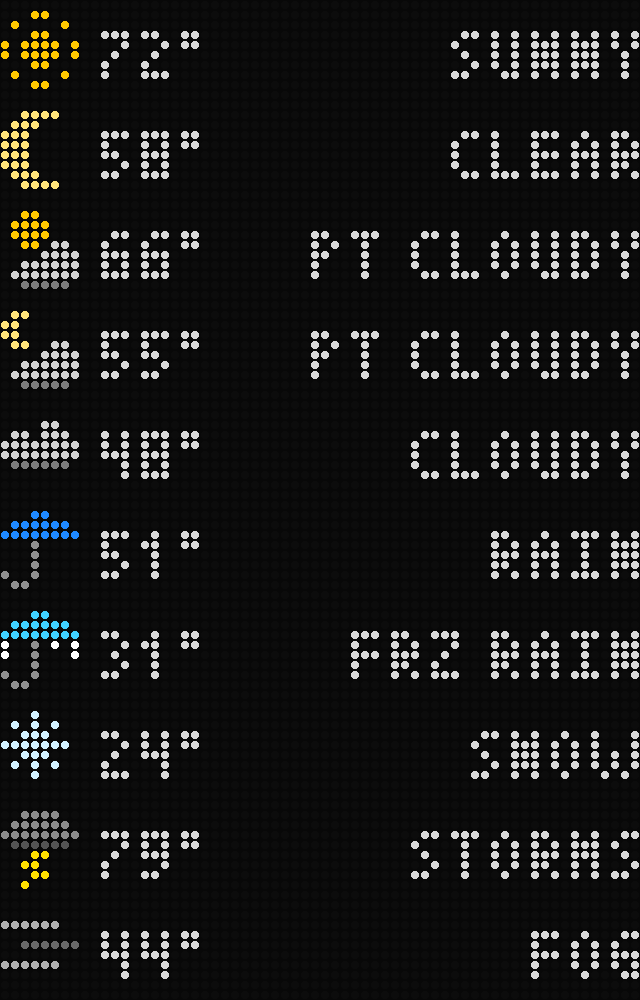
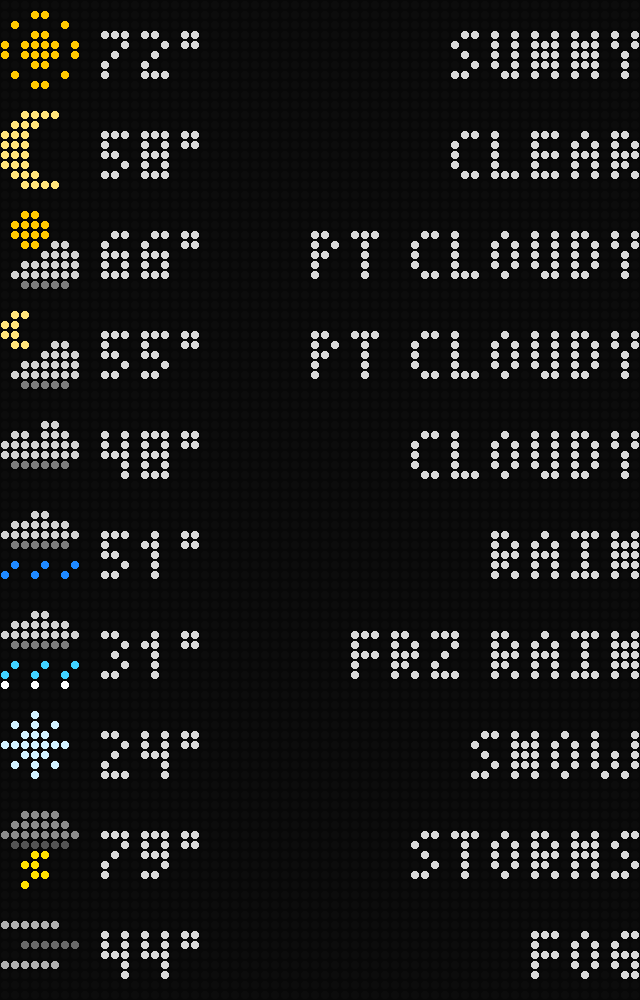
Board: rain and freezing rain as a cloud with streaks
The umbrella's 2px peak read like a lamp. Rain is now a cloud with
slanted blue streaks, matching the storm icon (cloud and bolt); freezing
rain is the same cloud with cyan streaks ending in white ice, so it
doesn't read as rain at night brightness.

Claude-Session: https://claude.ai/code/session_01GmVBM93c7aqLNDoZ2PwPgy

Changed region(s): [[0.0, 0.62, 0.125, 0.713], [0.0, 0.496, 0.125, 0.589]]

diff --git a/server/board/icons.js b/server/board/icons.js
@@ -16,10 +16,9 @@ const PALETTE = {
   D: '#7c7c7c', // cloud underside
   G: '#8a8a8a', // storm cloud
   K: '#545454', // storm cloud underside
-  B: '#1e88ff', // umbrella canopy
-  H: '#8f8f8f', // umbrella handle
-  I: '#40d0ff', // icy canopy
-  W: '#ffffff', // icicles
+  B: '#1e88ff', // rain
+  I: '#40d0ff', // freezing rain
+  W: '#ffffff', // ice under freezing rain
   S: '#d0f0ff', // snowflake
   F: '#b0b0b0', // fog
   E: '#686868', // fog, far line
@@ -78,24 +77,24 @@ const ICONS = {
     '........',
   ],
   rain: [
-    '...BB...',
-    '.BBBBBB.',
-    'BBBBBBBB',
-    '...H....',
-    '...H....',
-    '...H....',
-    'H..H....',
-    '.HH.....',
+    '...CC...',
+    '.CCCCCC.',
+    'CCCCCCCC',
+    '.DDDDDD.',
+    '........',
+    '.B..B..B',
+    'B..B..B.',
+    '........',
   ],
   ice: [
-    '...II...',
-    '.IIIIII.',
-    'IIIIIIII',
-    'W..H.W.W',
-    'W..H...W',
-    '...H....',
-    'H..H....',
-    '.HH.....',
+    '...CC...',
+    '.CCCCCC.',
+    'CCCCCCCC',
+    '.DDDDDD.',
+    '........',
+    '.I..I..I',
+    'I..I..I.',
+    'W..W..W.',
   ],
   snow: [
     '...S....',

diff --git a/firmware/boardlib/assets.py b/firmware/boardlib/assets.py
@@ -37,7 +37,6 @@ ICON_PALETTE = {
     71: (138, 138, 138),  # G
     75: (84, 84, 84),  # K
     66: (30, 136, 255),  # B
-    72: (143, 143, 143),  # H
     73: (64, 208, 255),  # I
     87: (255, 255, 255),  # W
     83: (208, 240, 255),  # S
@@ -52,8 +51,8 @@ ICONS = {
     'pcloudy_day': b'..YY.....YYYY....YYYY.....YY.CC.....CCCC..CCCCCC.CCCCCCC..DDDDD.',
     'pcloudy_night': b'.MM.....MM......MM.......MM..CC.....CCCC..CCCCCC.CCCCCCC..DDDDD.',
     'cloudy': b'............CC...CC.CCC.CCCCCCCCCCCCCCCC.DDDDDD.................',
-    'rain': b'...BB....BBBBBB.BBBBBBBB...H.......H.......H....H..H.....HH.....',
-    'ice': b'...II....IIIIII.IIIIIIIIW..H.W.WW..H...W...H....H..H.....HH.....',
+    'rain': b'...CC....CCCCCC.CCCCCCCC.DDDDDD..........B..B..BB..B..B.........',
+    'ice': b'...CC....CCCCCC.CCCCCCCC.DDDDDD..........I..I..II..I..I.W..W..W.',
     'snow': b'...S.....S.S.S....SSS...SSSSSSS...SSS....S.S.S.....S............',
     'storm': b'..GGGG...GGGGGG.GGGGGGGG.KKKKKK....LL.....LL.......LL.....L.....',
     'fog': b'........FFFFFF............EEEEEE........FFFFFF..................',

diff --git a/docs/board/design-spec.md b/docs/board/design-spec.md
@@ -179,7 +179,7 @@ One custom **board font** (BDF), built from bitmap fonts in `hzeller/rpi-rgb-led
 ### Weather row (optional)
 - 8x8 condition icon, temperature with a small 2x2 degree sign (e.g. `54°`), condition word (uppercase) on the right. Both texts are mid grey (`#8f8f8f`, the grey used for records and high/low) so the row reads as secondary; the watch/warning tag keeps its colors.
 - Icons are multi-color sprites defined in `server/board/icons.js` (with the Open-Meteo weather-code mapping); previews in `docs/board/previews/sheet-icons.png`.
-- Icons: sun, moon, partly cloudy (day/night), cloudy, **umbrella** (rain/drizzle/showers), **icy umbrella** (freezing rain), **snowflake**, storm cloud with bolt, fog.
+- Icons: sun, moon, partly cloudy (day/night), cloudy, **cloud with rain** (rain/drizzle/showers), **cloud with freezing rain** (cyan streaks ending in white ice), **snowflake**, storm cloud with bolt, fog.
 - **Watch/warning tag** replaces the condition word: `[bolt]` or `[funnel]` + `WATCH` (yellow) / `WARNING` (orange for severe, red for tornado), with a **3px gap** between icon and word (1px read as `SWATCH`; 2px still looked tight). Static, no scrolling.
 
 ### CTA alerts
